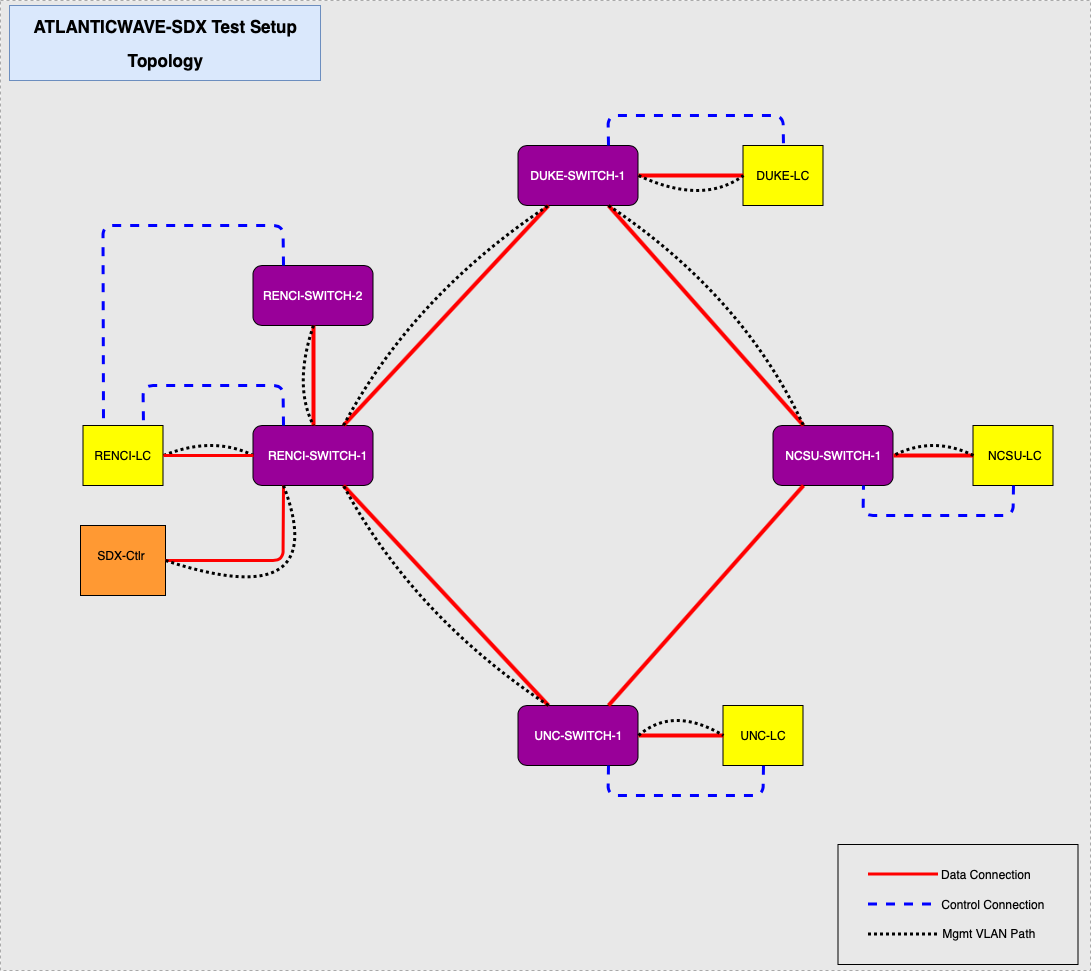
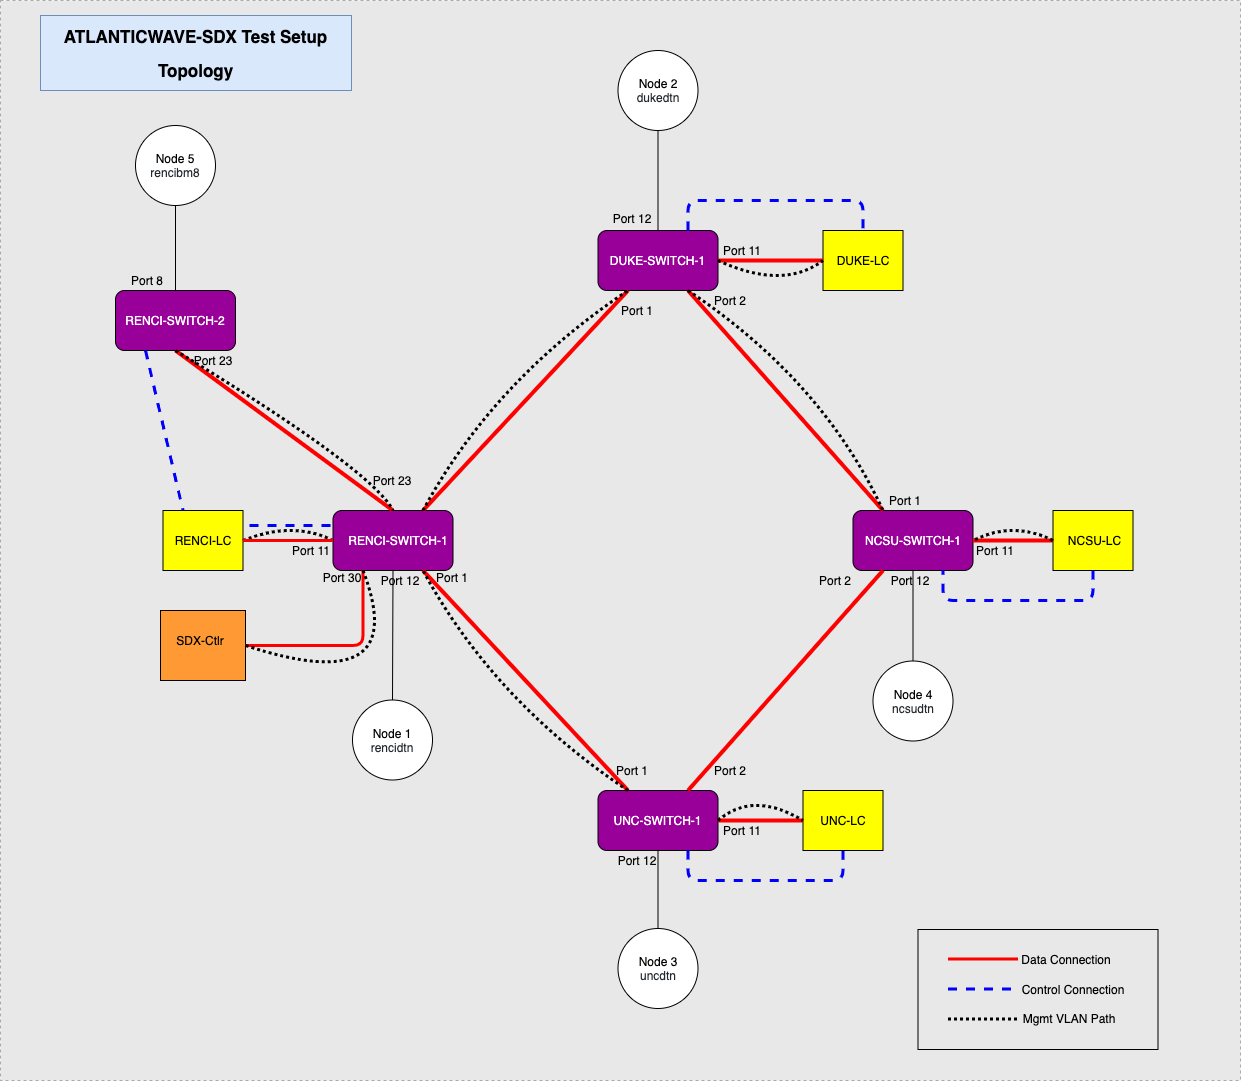
Update figures

diff --git a/configuration/renci_testbed/L2MultipointRateLimiting.md b/configuration/renci_testbed/L2MultipointRateLimiting.md
@@ -1,0 +1,59 @@
+# L2Multipoint RateLimiting
+
+## VFC Layout
+
+![alt text](figures/AW-SDX-Corsa-Tunnel-Layout-with-L2MP-Ratelimiting.png)
+
+
+## Create L2Multipoint Rate Limiting VFC
+
+```
+# RENCI
+configure bridge add br19 l2-vpn resources 5
+configure bridge br19 controller add CONTbr19 172.17.1.1 6653
+
+configure port 5 tunnel-mode ctag
+configure port 6 tunnel-mode ctag
+configure port 7 tunnel-mode ctag
+configure port 8 tunnel-mode ctag
+
+
+# RENCI-2
+configure bridge add br19 l2-vpn resources 5
+configure bridge br19 controller add CONTbr19 172.17.1.1 6653
+
+configure port 3 tunnel-mode ctag
+configure port 13 tunnel-mode ctag
+configure port 4 tunnel-mode ctag
+configure port 14 tunnel-mode ctag
+
+
+# DUKE 
+configure bridge add br19 l2-vpn resources 5
+configure bridge br19 controller add CONTbr19 172.17.1.1 6653
+
+configure port 5 tunnel-mode ctag
+configure port 6 tunnel-mode ctag
+configure port 7 tunnel-mode ctag
+configure port 8 tunnel-mode ctag
+
+
+# UNC
+configure bridge add br19 l2-vpn resources 5
+configure bridge br19 controller add CONTbr19 172.17.1.1 6653
+
+configure port 5 tunnel-mode ctag
+configure port 6 tunnel-mode ctag
+configure port 7 tunnel-mode ctag
+configure port 8 tunnel-mode ctag
+
+
+# NCSU
+configure bridge add br19 l2-vpn resources 5
+configure bridge br19 controller add CONTbr19 172.17.1.1 6653
+
+configure port 5 tunnel-mode ctag
+configure port 6 tunnel-mode ctag
+configure port 7 tunnel-mode ctag
+configure port 8 tunnel-mode ctag
+```
